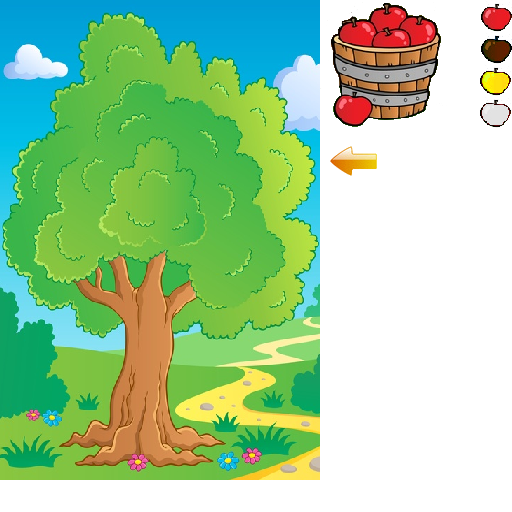
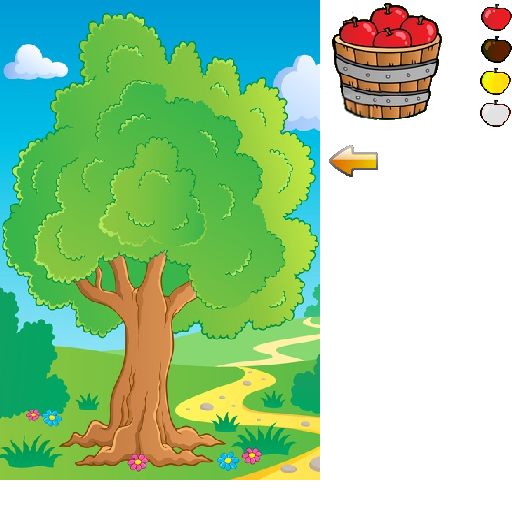
new image

Changed region(s): [[0.625, 0.0, 0.875, 0.25], [0.625, 0.2812, 0.75, 0.3438], [0.75, 0.125, 0.7812, 0.1562]]

diff --git a/src/de/pacworx/fallobst/StartScreen.java b/src/de/pacworx/fallobst/StartScreen.java
@@ -52,7 +52,7 @@ public class StartScreen implements Screen {
     batch.begin();
 
     batch.draw(Assets.background, 0, 0, World.WIDTH, World.HEIGHT);
-    batch.draw(Assets.back, 40, 40, 130, 130);
+    batch.draw(Assets.back, 40, 40, 120, 120);
 
     Fonts.title_red.draw(batch, "Apfelernte", (World.WIDTH - titleWidth) / 2, 670);
 
